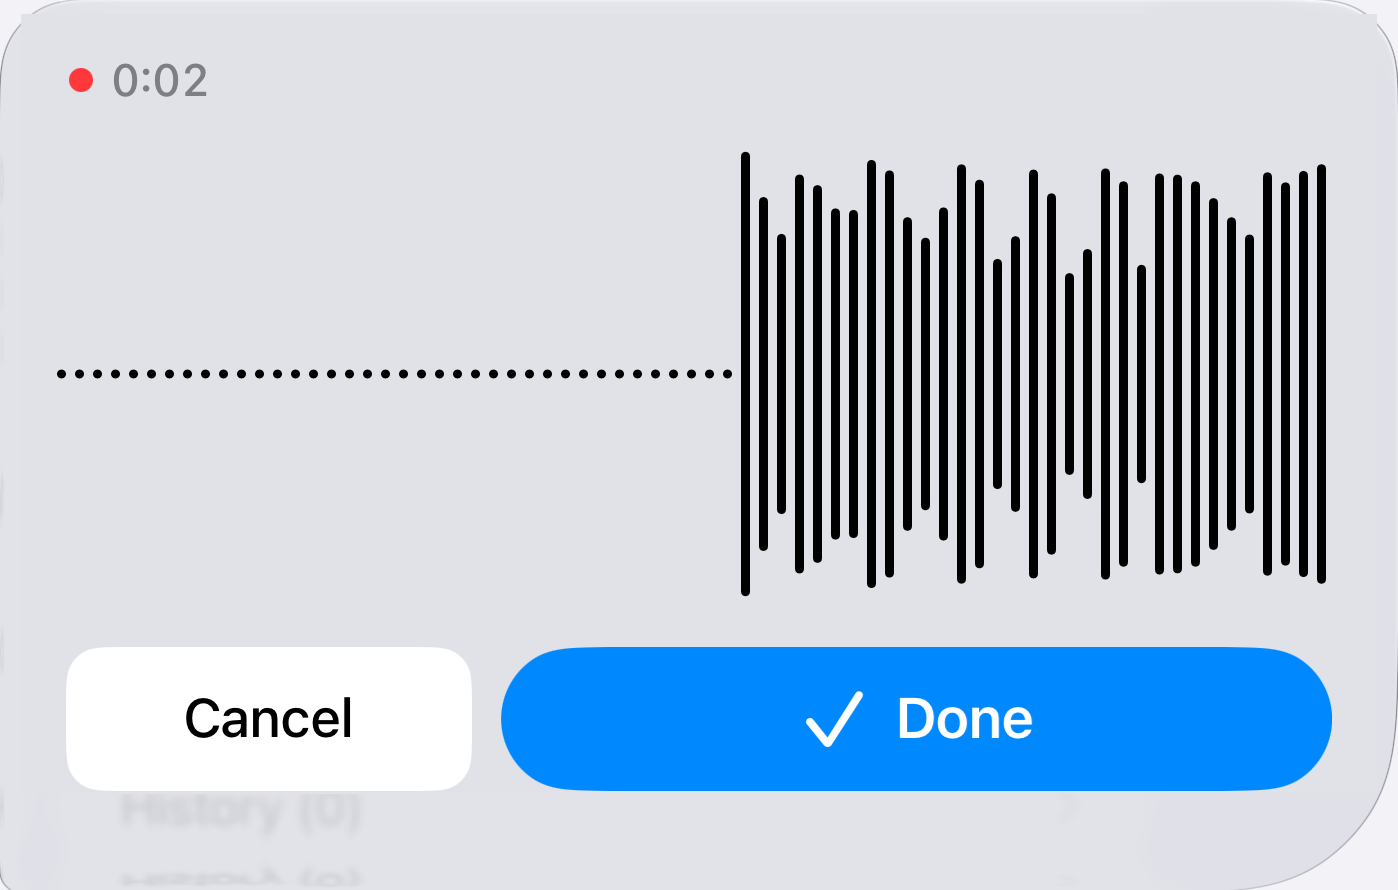
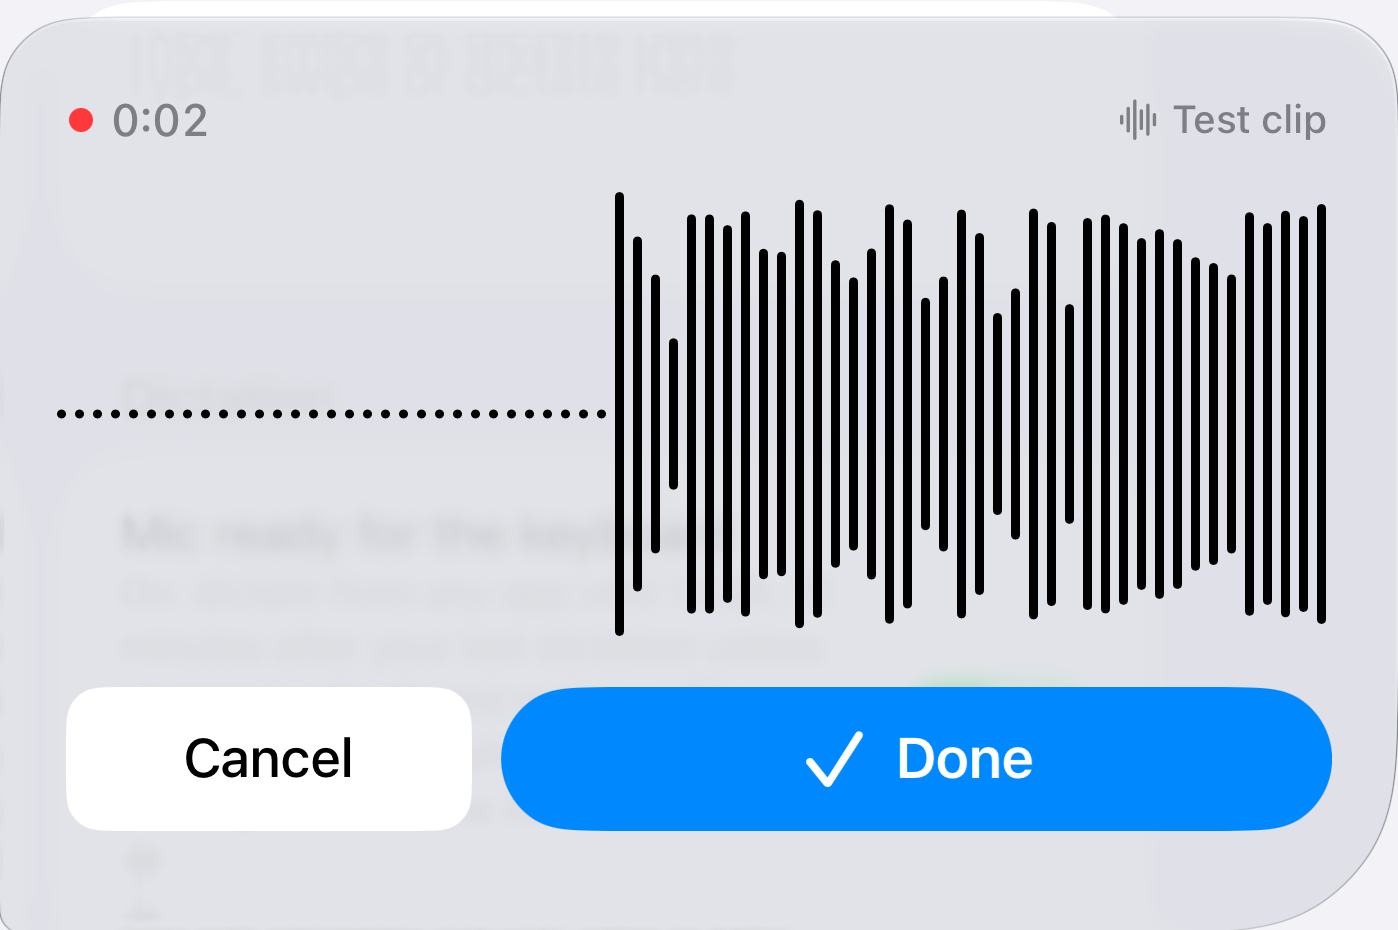
docs: the iPhone guide covers the merged keyboard and mic changes
Red mic key, emoji key and panel, v2t on the space bar, the hide chevron,
the system dictation key and its limits (unverified on a phone), the
microphone's name, music with the session on, and transcription while you
talk. Benchmarks link the README's autocorrect rows instead of copying an
old figure. Keyboard, recording and handoff screenshots refreshed.

diff --git a/docs/iphone.md b/docs/iphone.md
@@ -9,7 +9,8 @@
 
     v2t for iPhone is in internal testing on TestFlight. Only testers the maintainer adds to the app's
     App Store Connect team can install it. It has no public TestFlight link and no App Store listing
-    yet. This page describes TestFlight build 3 (5 November 2026). Send problems through TestFlight's
+    yet. Every change to the app goes to TestFlight; this page describes it as of 6 November 2026.
+    Send problems through TestFlight's
     **Send Beta Feedback** or as a [GitHub issue](https://github.com/lucharo/voice2text/issues).
 
 ## Will it work on my device?
@@ -57,12 +58,12 @@ section shows what your device got and why, and says so when your iPhone model i
 
 <figure markdown>
   ![The v2t app's setup list with all three rows ticked: the keyboard is on, it last opened with Full Access, and the speech model is ready](images/iphone/setup.png){ width="340" }
-  <figcaption>Setup done. All screenshots on this page: build 3 in the iPhone Simulator.</figcaption>
+  <figcaption>Setup done. All screenshots on this page come from the iPhone Simulator, 6 November 2026.</figcaption>
 </figure>
 
 ## Dictate
 
-Tap the v2t mic key (on the iPhone, to the left of return).
+Tap the red v2t mic key (on the iPhone, to the left of return).
 
 When no microphone session is on, the v2t app itself opens, because iOS gives keyboards no
 microphone. It is already listening: go back to your app (tap ◀ at the top left, or swipe right
@@ -70,8 +71,8 @@ along the bottom edge) and keep talking. iOS gives v2t no way to send you back. 
 microphone session stays on, and the mic key records without leaving your app.
 
 <figure markdown>
-  ![The v2t app's Listening screen: go back to your app and keep talking, then tap Done on the v2t keyboard; a Stop and stay here button at the bottom](images/iphone/handoff.png){ width="300" }
-  <figcaption>What the first mic tap of a session opens.</figcaption>
+  ![The v2t app's Listening screen: the microphone in use, then go back to your app and keep talking, how to go back, and tap Done on the v2t keyboard; a Stop and stay here button at the bottom](images/iphone/handoff.png){ width="300" }
+  <figcaption>What the first mic tap of a session opens. On a phone it names the real microphone.</figcaption>
 </figure>
 
 ```mermaid
@@ -86,18 +87,19 @@ sequenceDiagram
     Note over K,A: later mic taps record without leaving your app
 ```
 
-While you talk, a waveform and a timer cover the keys. Tap **Done** to finish: transcription starts
-then, and the keyboard shows "Transcribing…" before it types the text. **Cancel** stops without
-typing anything, though v2t still saves the dictation in History.
+While you talk, a waveform, a timer and the name of the microphone in use cover the keys. Tap
+**Done** to finish: the keyboard shows "Transcribing…", then types the text. A dictation over about
+15 seconds is transcribed in pieces while you talk, so only the last piece is left after Done.
+**Cancel** stops without typing anything, though v2t still saves the dictation in History.
 
 <div style="display: flex; flex-wrap: wrap; gap: 1rem; justify-content: center" markdown>
 <figure markdown>
-  ![The v2t keyboard: suggestion bar, letter keys, and a bottom row of 123, globe, space, the v2t mic key and return](images/iphone/keyboard.png){ width="320" }
-  <figcaption>The v2t mic key, left of return.</figcaption>
+  ![The v2t keyboard: suggestion bar with the hide chevron at its right end, letter keys, and a bottom row of 123, globe, emoji, space with v2t in its corner, the red mic key and return](images/iphone/keyboard.png){ width="320" }
+  <figcaption>The red mic key, left of return. The Simulator draws no iOS globe below the keys, so v2t shows its own here.</figcaption>
 </figure>
 <figure markdown>
-  ![The v2t keyboard while recording: a waveform and a timer cover the keys, with Cancel and Done buttons at the bottom](images/iphone/recording.png){ width="320" }
-  <figcaption>Recording: Cancel or Done.</figcaption>
+  ![The v2t keyboard while recording: a waveform, a timer and the microphone's name cover the keys, with Cancel and Done buttons at the bottom](images/iphone/recording.png){ width="320" }
+  <figcaption>Recording: Cancel or Done. "Test clip" is the Simulator's stand-in for a microphone.</figcaption>
 </figure>
 </div>
 
@@ -105,6 +107,9 @@ typing anything, though v2t still saves the dictation in History.
 
 - iOS shows the orange microphone dot while the session is on. v2t keeps only what you say between
   tapping the mic and tapping Done or Cancel; it records and saves nothing else.
+- v2t records from the iPhone's own microphone, even with AirPods connected, so music in other apps
+  keeps playing as it would without v2t. The app shows **Recording from** and the microphone's name
+  under **Mic ready for the keyboard**. This has not been checked on a phone yet.
 - The session turns off 15 minutes after your last dictation. Change that under **Languages and
   typing** › **Keep the mic ready for**: 5 minutes, 15 minutes, 1 hour, or until you turn it off
   yourself, as below.
@@ -144,6 +149,13 @@ Apple's from other keyboards. It has English (QWERTY) and Spanish (with ñ) layo
 and Spanish together unless you turn that off, offers accents on a long press, and moves the cursor
 when you hold the space bar and slide. Their settings are under **Languages and typing** in the app.
 
+- **Emoji:** on Face ID iPhones the emoji key sits after 123, where Apple's keyboard has it, and
+  opens v2t's emoji panel; long-press an emoji for skin tones and tap **ABC** to go back. iOS's own
+  globe below the keys switches keyboards. Where iOS draws no globe (iPads, Touch ID iPhones), v2t
+  shows its own globe with the emoji key after it.
+- **Hide the keyboard** with the chevron at the right end of the suggestion bar (on the iPad, the
+  hide key in the bottom row).
+
 iOS limits every third-party keyboard, v2t's included:
 
 - No text selection, edit menu or system undo. The space-bar cursor moves only left and right.
@@ -152,6 +164,12 @@ iOS limits every third-party keyboard, v2t's included:
 - Key previews on the top row draw over the suggestion bar, not above the keyboard.
 - A keyboard cannot use the microphone or open its own app on request, so the first dictation of a
   session goes through the v2t app.
+- A keyboard never sees taps outside itself, so it cannot hide when you tap away; the app you type
+  in decides that. Use the chevron.
+- The globe and microphone below the keys on Face ID iPhones belong to iOS. v2t asks iOS to
+  disable that microphone, since its own mic key dictates. Whether iOS then hides it or only greys
+  it out has not been checked on a phone. If it still shows, Settings › General › Keyboard ›
+  **Enable Dictation** off removes it, for Apple's keyboard too.
 
 ## Troubleshooting
 
@@ -186,9 +204,9 @@ Each part was measured separately, and the gaps are listed too. Details and sour
 
 - **Transcription:** speech models timed and scored on one iPhone 16 Pro, in a benchmark app.
 - **Cleanup:** Apple Intelligence scored on the same iPhone 16 Pro, also in a benchmark app.
-- **Keyboard:** swipe and autocorrect accuracy comes from simulated touches, and the typing rules
-  from tests in the iPhone Simulator. Nobody has measured accuracy with real fingers, or anything on
-  an iPad.
+- **Keyboard:** swipe accuracy comes from simulated touches, autocorrect from checks against Apple's
+  keyboard and lists of real misspellings, and the typing rules from tests in the iPhone Simulator.
+  Nobody has measured accuracy with real fingers, or anything on an iPad.
 
 ## Build it yourself
 

diff --git a/docs/benchmarks.md b/docs/benchmarks.md
@@ -79,8 +79,9 @@ accuracy so far comes from simulated touches, not fingers:
 
 - **Swiping whole messages** with finger-like traces on the iPhone layout, the right word came first
   98.3% of the time in English and 89.7% in Spanish; with a sloppier finger, 89.6% and 84.6%.
-- **Autocorrect** fixed 187 of 200 simulated typos per language and changed none of 1,000 correctly
-  typed common words.
+- **Autocorrect** is checked against what Apple's keyboard does and against Wikipedia's lists of
+  common misspellings, typed at the centre of each key; the results are in the
+  [autocorrect rows of ios/README.md](https://github.com/lucharo/voice2text/blob/main/ios/README.md#how-close-it-is-to-apples-keyboard).
 - **The typing rules** (capitals, double-space full stop, undoing an autocorrect) are checked by unit tests on the Mac and by UI
   tests that drive the keyboard in the iPhone Simulator.
 - **On a real iPhone 17 Pro** (TestFlight build 1), swiping "hey how is it going" typed "GRU how is it
